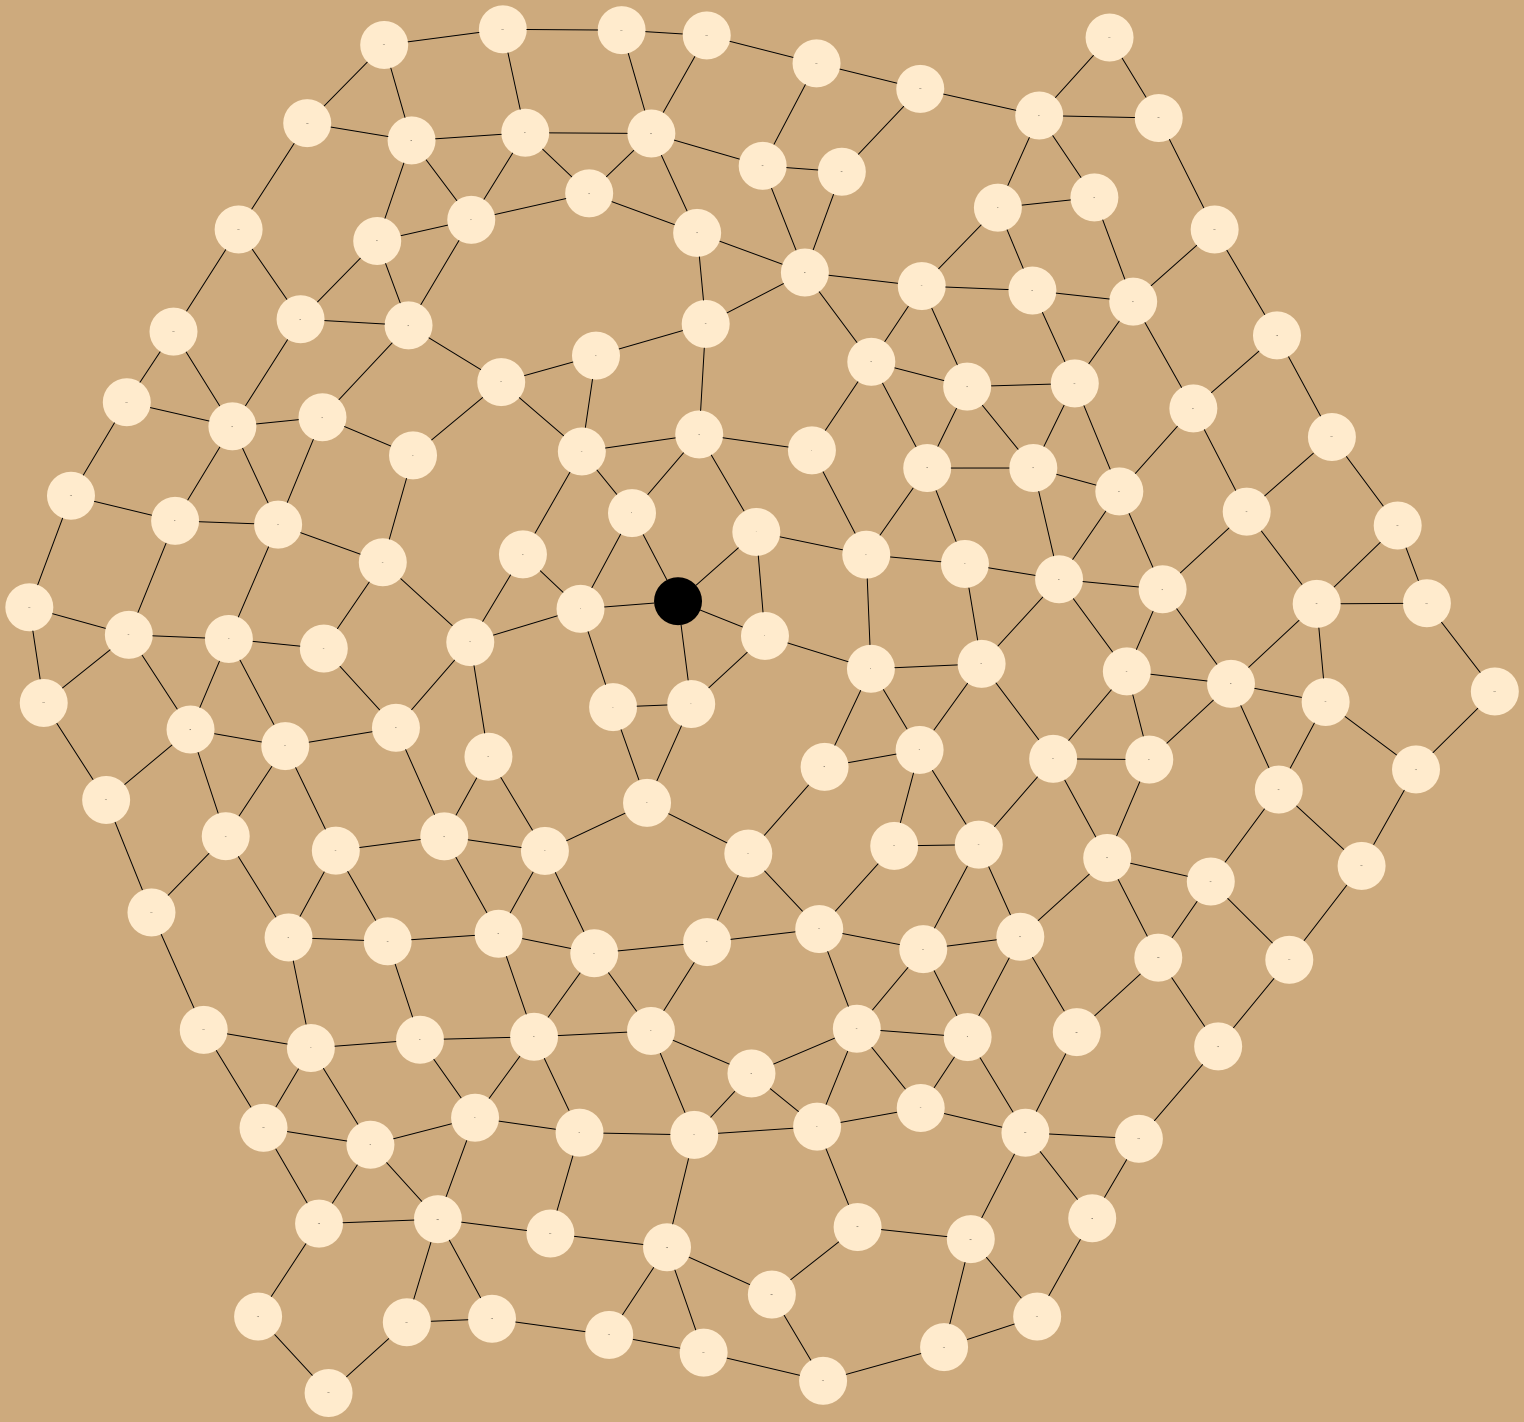
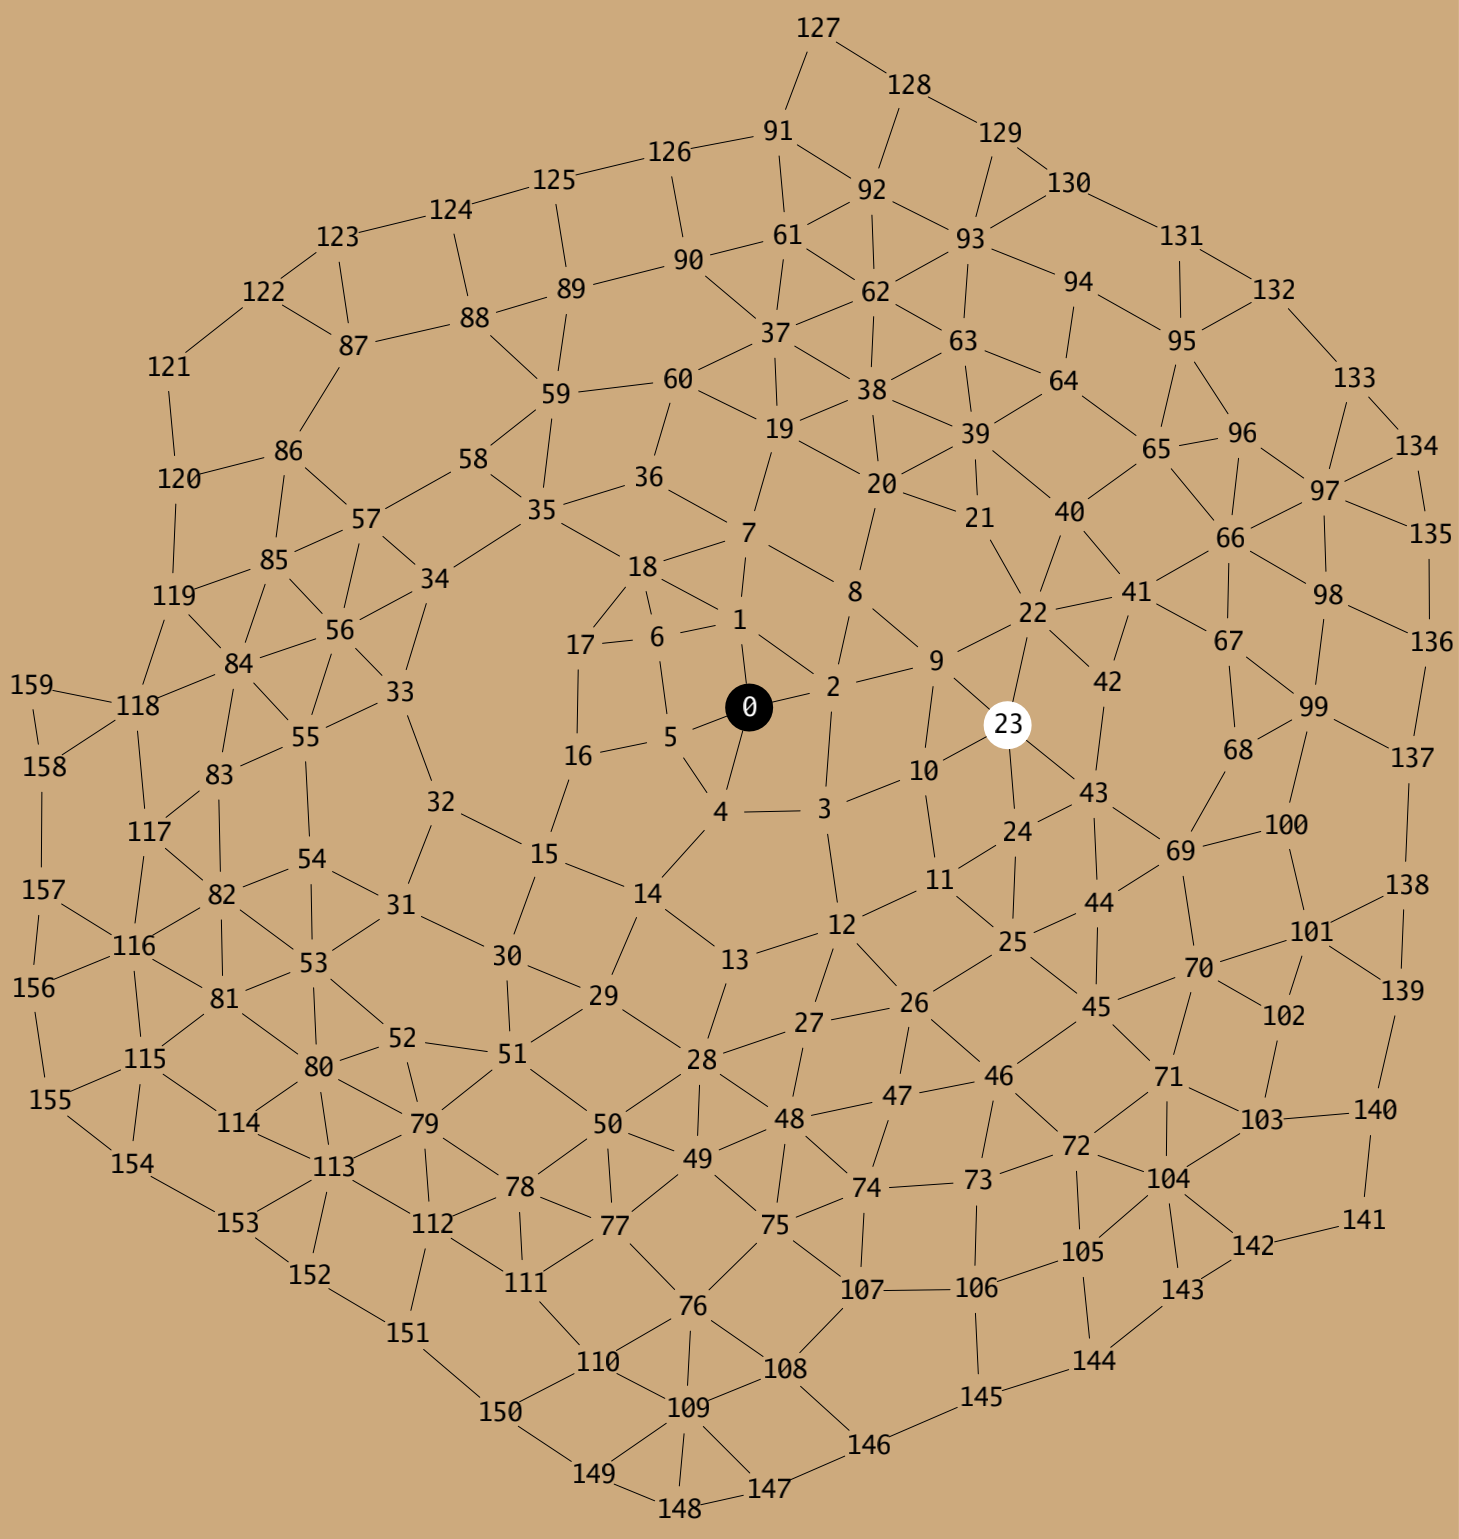
Small cosmetic changes.

diff --git a/internal/game/graphvizBoard.go b/internal/game/graphvizBoard.go
@@ -55,21 +55,23 @@ func initStone(myNode *node, g *cgraph.Graph, dead map[*node]bool) *cgraph.Node 
 	stone.SetFixedSize(true)
 
 	if myNode.color == 0 {
-		stone.SetFillColor("blanchedalmond")
+		stone.SetFillColor("burlywood3")
 	} else if myNode.color == 1 {
 		if dead[myNode] {
 			stone.SetFillColor("grey1")
 		} else {
 			stone.SetFillColor("black")
+			stone.SetFontColor("white")
 		}
 	} else {
 		if dead[myNode] {
 			stone.SetFillColor("grey100")
 		} else {
 			stone.SetFillColor("white")
+			stone.SetFontColor("black")
 		}
 	}
-	stone.SetFontSize(0)
+	stone.SetFontSize(20)
 
 	return stone
 }

diff --git a/internal/cli/graphvizBoard.go b/internal/cli/graphvizBoard.go
@@ -32,7 +32,7 @@ func (g Graph) initStone(myNode *node) *Node {
 	}
 	stone.SetStyle("filled")
 	if myNode.color == 0 {
-		stone.SetFillColor("grey")
+		stone.SetFillColor("burlywood3")
 	} else if myNode.color == 1 {
 		stone.SetFillColor("black")
 	} else {

diff --git a/test_main.go b/test_main.go
@@ -6,6 +6,6 @@ import (
 
 func main() {
 	//game.StartRectangularGame(4, 4)
-	game.StartRandomGame(150)
+	game.StartRandomGame(160)
 	// game.DebugPrint()
 }
